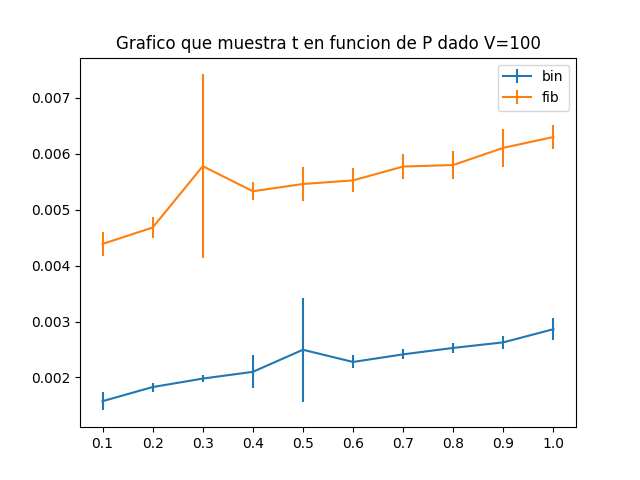
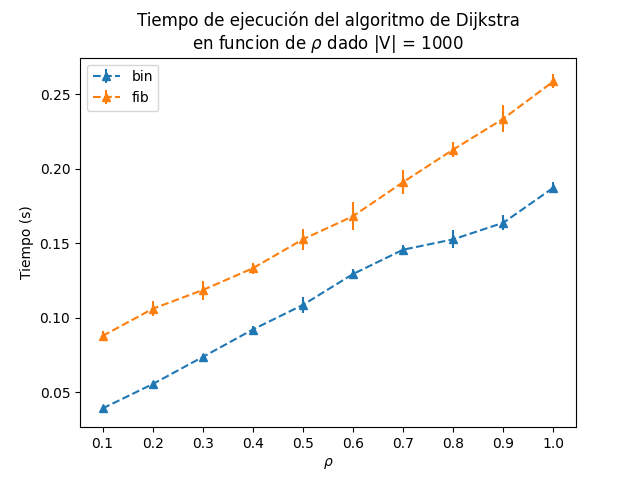
running experiments

diff --git a/T2/experimentos/v_visualizer.py b/T2/experimentos/v_visualizer.py
@@ -1,33 +1,23 @@
 # -*- coding: utf-8 -*-
-import json
 import matplotlib.pyplot as plt
+from src.utils import get_bin_v, get_fib_v, get_min_p
 
-# Binary
-bin_fp = open("experimentos/files/find_v_bin.json")
-bin_v = json.load(bin_fp)
-bin_fp.close()
-bin_t_mean = [float(bin_v[i]["time_mean"]) for i in bin_v]
-bin_t_std = [float(bin_v[i]["time_std"]) for i in bin_v]
+def v_visualization():
 
-# Fibonacci
-fib_fp = open("experimentos/files/find_v_fib.json")
-fib_v = json.load(fib_fp)
-fib_fp.close()
-fib_t_mean = [float(fib_v[i]["time_mean"]) for i in fib_v]
-fib_t_std = [float(fib_v[i]["time_std"]) for i in fib_v]
+    bin_v = get_bin_v()
+    fib_v = get_fib_v()
+    p = get_min_p()
+    bin_t_mean = [float(bin_v[i]["time_mean"]) for i in bin_v]
+    bin_t_std = [float(bin_v[i]["time_std"]) for i in bin_v]
+    fib_t_mean = [float(fib_v[i]["time_mean"]) for i in fib_v]
+    fib_t_std = [float(fib_v[i]["time_std"]) for i in fib_v]
 
+    plt.errorbar(bin_v.keys(), bin_t_mean, bin_t_std, label="bin")
+    plt.errorbar(fib_v.keys(), fib_t_mean, fib_t_std, label="fib")
+    plt.title("Tiempos de ejecución del algoritmo de Dijkstra\nen funcion de |V| variable y $\\rho$ = {}".format(p))
+    plt.xlabel("|V|")
+    plt.ylabel("Tiempo (s)")
+    plt.legend()
+    plt.savefig("experimentos/visualizaciones/v.png")
+    plt.clf()
 
-plt.errorbar(bin_v.keys(), bin_t_mean, bin_t_std, label="bin")
-plt.errorbar(fib_v.keys(), fib_t_mean, fib_t_std, label="fib")
-plt.title("Grafico que muestra V en funcion de p dado V = 100")
-plt.legend()
-plt.savefig("experimentos/visualizaciones/v.png")
-
-min = 1e9
-index = -1
-for i in fib_v.keys():
-    current = float(fib_v[i]["time_std"]) + float(bin_v[i]["time_std"])
-    if current < min:
-        min = current
-        index = i
-print(index)

diff --git a/T2/experimentos/p_visualizer.py b/T2/experimentos/p_visualizer.py
@@ -1,33 +1,22 @@
 # -*- coding: utf-8 -*-
-import json
 import matplotlib.pyplot as plt
+from src.utils import get_bin_p, get_fib_p
 
-# Binary
-bin_fp = open("experimentos/files/find_p_bin.json")
-bin_p = json.load(bin_fp)
-bin_fp.close()
-bin_t_mean = [float(bin_p[i]["time_mean"]) for i in bin_p]
-bin_t_std = [float(bin_p[i]["time_std"]) for i in bin_p]
+def p_visualization(V):
 
-# Fibonacci
-fib_fp = open("experimentos/files/find_p_fib.json")
-fib_p = json.load(fib_fp)
-fib_fp.close()
-fib_t_mean = [float(fib_p[i]["time_mean"]) for i in fib_p]
-fib_t_std = [float(fib_p[i]["time_std"]) for i in fib_p]
+    bin_p = get_bin_p()
+    fib_p = get_fib_p()
 
+    bin_t_mean = [float(bin_p[i]["time_mean"]) for i in bin_p]
+    bin_t_std = [float(bin_p[i]["time_std"]) for i in bin_p]
+    fib_t_mean = [float(fib_p[i]["time_mean"]) for i in fib_p]
+    fib_t_std = [float(fib_p[i]["time_std"]) for i in fib_p]
 
-plt.errorbar(bin_p.keys(), bin_t_mean, bin_t_std, label="bin")
-plt.errorbar(fib_p.keys(), fib_t_mean, fib_t_std, label="fib")
-plt.title("Grafico que muestra t en funcion de P dado V=100")
-plt.legend()
-plt.savefig("experimentos/visualizaciones/p.png")
-
-min = 1e9
-index = -1
-for i in fib_p.keys():
-    current = float(fib_p[i]["time_std"]) + float(bin_p[i]["time_std"])
-    if current < min:
-        min = current
-        index = i
-print(index)
+    plt.errorbar(bin_p.keys(), bin_t_mean, bin_t_std, fmt='--^',label="bin")
+    plt.errorbar(fib_p.keys(), fib_t_mean, fib_t_std, fmt='--^', label="fib")
+    plt.title("Tiempo de ejecución del algoritmo de Dijkstra\nen funcion de $\\rho$ dado |V| = {}".format(V))
+    plt.xlabel("$\\rho$")
+    plt.ylabel("Tiempo (s)")
+    plt.legend()
+    plt.savefig("experimentos/visualizaciones/p.png")
+    plt.clf()

diff --git a/T2/exp_controller.py b/T2/exp_controller.py
@@ -1,29 +1,40 @@
 from experimentos.get_k import find_p, find_V
+from experimentos.p_visualizer import p_visualization
+from experimentos.v_visualizer import v_visualization
+from experimentos.m_visualizer import m_visualization
 import json
 
-fib_p = find_p("fibo")
+MAX_NODES = 1000
+v = MAX_NODES
+p_range = [p/10 for p in range(1, 11)]
+
+fib_p = find_p("fibo", v, p_range)
 with open("experimentos/files/find_p_fib.json", 'w+') as fp:
     json.dump(fib_p, fp)
 fp.close()
-bin_p = find_p("bin")
+bin_p = find_p("bin", v, p_range)
 with open("experimentos/files/find_p_bin.json", 'w+') as fp:
     json.dump(bin_p, fp)
 fp.close()
 
-min = 1e9
-index = -1
+dict_xd = {}
 for i in fib_p.keys():
     current = float(fib_p[i]["time_std"]) + float(bin_p[i]["time_std"])
-    if current < min:
-        min = current
-        index = float(i)
+    dict_xd[float(i)] = current
+index = max(sorted(dict_xd.items())[0:3])[0]
 print(index)
 
-fib_v = find_V(index, "fibo")
+v_range = list(range(0, MAX_NODES+1, MAX_NODES//10))
+v_range[0] = 2
+fib_v = find_V(index, "fibo", v_range)
 with open("experimentos/files/find_v_fib.json", 'w+') as fp:
     json.dump(fib_v, fp)
 fp.close()
-bin_v = find_V(index, "bin")
+bin_v = find_V(index, "bin", v_range)
 with open("experimentos/files/find_v_bin.json", 'w+') as fp:
     json.dump(bin_v, fp)
 fp.close()
+
+p_visualization(v)
+v_visualization()
+m_visualization()

diff --git a/T2/experimentos/get_k.py b/T2/experimentos/get_k.py
@@ -1,26 +1,18 @@
 import statistics
 import time
-import numpy as np
 from src.generator_base import generator
 from src.priorityQueue import BinaryHeap, FibonacciHeap
 from src.dijkstra_base import dijkstra
 import tracemalloc
 
-MAX = 26
-v = 100
-super_dict = {}
-p_range = [p/10 for p in range(1, 11)]
-v_range = list(range(0, 1001, 100))
-v_range[0] = 2
-
-def find_p(heap):
+def find_p(heap, v, p_range):
     """
     FIJAR V Y PROBAR CON DIFERENTES P
     """
     out = {}
     for p in p_range:
         list_k = []
-        for i in range(MAX):
+        for i in range(26):
             aaah = []
             graph, start = generator(v, p)
             for i in range(3):
@@ -40,8 +32,7 @@ def find_p(heap):
     return out
 
 
-
-def find_V(p, heap):
+def find_V(p, heap, v_range):
     """
     FIJAR P Y PROBAR CON DIFERENTES V
     """
@@ -50,7 +41,7 @@ def find_V(p, heap):
         list_k = []
         list_memory_current = []
         list_memory_peak = []
-        for i in range(MAX):
+        for i in range(26):
             aaah = []
             memory_current = []
             memory_peak = []

diff --git a/T2/src/utils.py b/T2/src/utils.py
@@ -1,3 +1,5 @@
+import json
+
 def graph_to_dict(d):
     g = d.split()
     graph = {}
@@ -35,3 +37,37 @@ def log2_ceil(n):
         inc_aux += inc_aux
         ans += 1
     return ans
+
+def get_fib_p():
+    fib_fp = open("experimentos/files/find_p_fib.json")
+    fib_p = json.load(fib_fp)
+    fib_fp.close()
+    return fib_p
+
+def get_bin_p():
+    bin_fp = open("experimentos/files/find_p_bin.json")
+    bin_p = json.load(bin_fp)
+    bin_fp.close()
+    return bin_p
+
+def get_fib_v():
+    fib_fp = open("experimentos/files/find_v_fib.json")
+    fib_v = json.load(fib_fp)
+    fib_fp.close()
+    return fib_v
+
+def get_bin_v():
+    bin_fp = open("experimentos/files/find_v_bin.json")
+    bin_v = json.load(bin_fp)
+    bin_fp.close()
+    return bin_v
+
+def get_min_p():
+    fib_p = get_fib_p()
+    bin_p = get_bin_p()
+    dict_xd = {}
+    for i in fib_p.keys():
+        current = float(fib_p[i]["time_std"]) + float(bin_p[i]["time_std"])
+        dict_xd[float(i)] = current
+    index = max(sorted(dict_xd.items())[0:3])[0]
+    return index

diff --git a/T2/experimentos/m_visualizer.py b/T2/experimentos/m_visualizer.py
@@ -1,0 +1,20 @@
+# -*- coding: utf-8 -*-
+import matplotlib.pyplot as plt
+from src.utils import get_bin_v, get_fib_v, get_min_p
+
+def m_visualization():
+    
+    bin_v = get_bin_v()
+    fib_v = get_fib_v()
+    p = get_min_p()
+    bin_memory_mean = [float(bin_v[i]["memory_peak_mean"])*0.001024 for i in bin_v]
+    fib_memory_mean = [float(fib_v[i]["memory_peak_mean"])*0.001024 for i in fib_v]
+    plt.plot(bin_v.keys(), bin_memory_mean, '--*', label="bin")
+    plt.plot(fib_v.keys(), fib_memory_mean, '--*', label="fib")
+    plt.title("Peaks de consumo de memoria para el algoritmo de Dijkstra\npara |V| variable y $\\rho$={}".format(p))
+    plt.xlabel("|V|")
+    plt.ylabel("Cantidad de MB")
+    plt.legend()
+    plt.savefig("experimentos/visualizaciones/memory.png")
+    plt.clf()
+

diff --git a/T2/reu.py b/T2/reu.py
@@ -1,0 +1,3 @@
+"""
+
+"""
